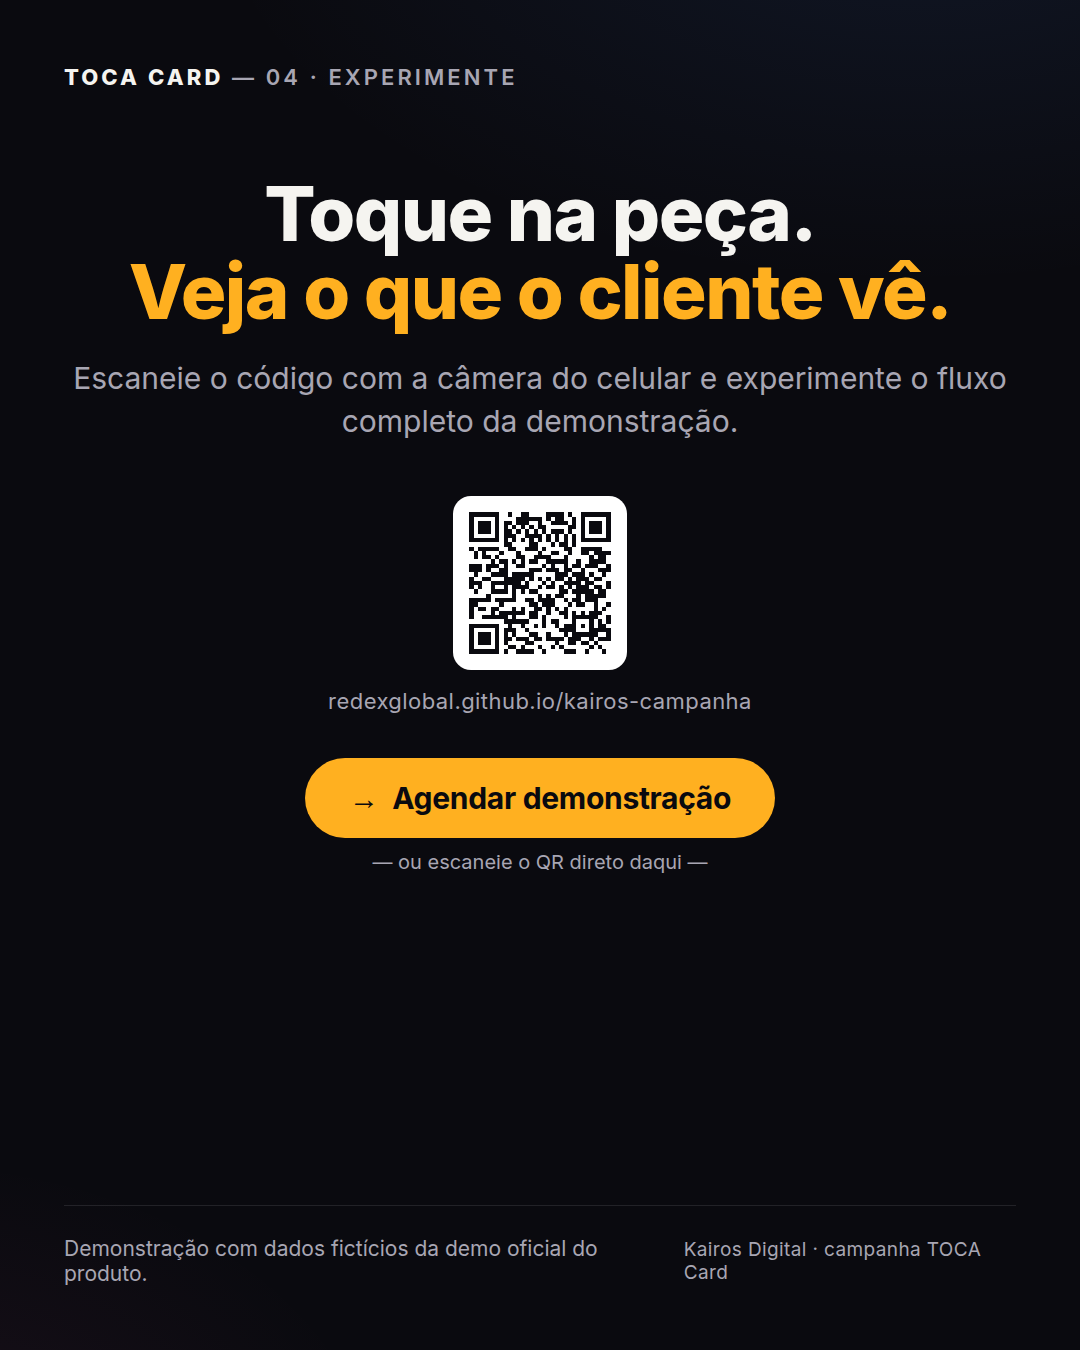
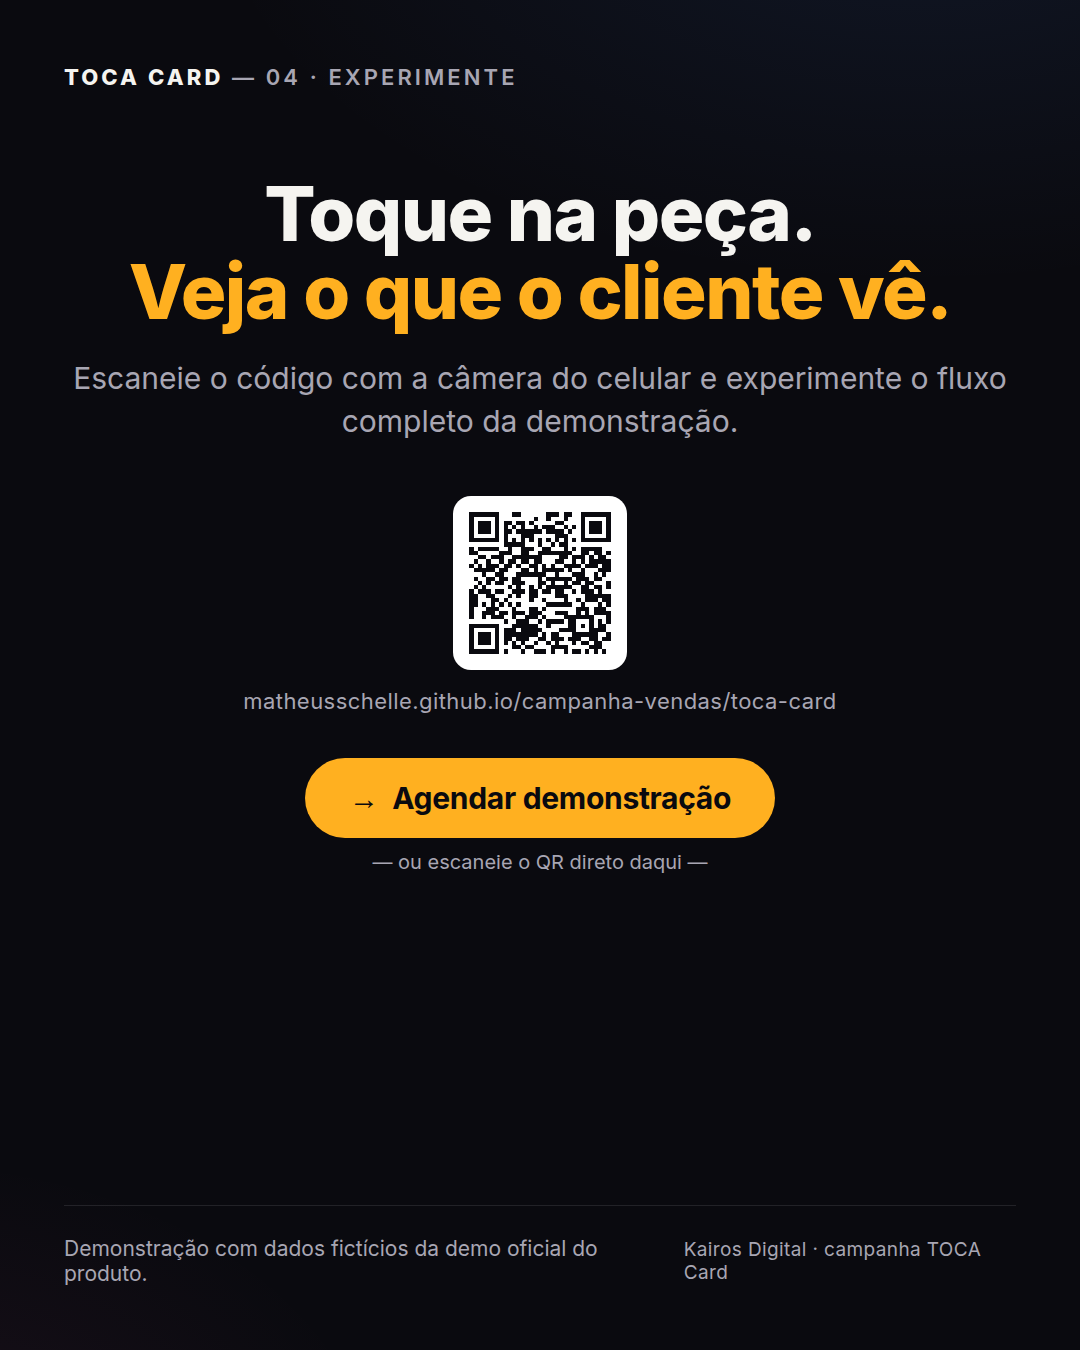
QRs e og:image apontando p/ URL final (campanha-vendas); flyers re-renderizados

Changed region(s): [[0.2139, 0.3733, 0.7639, 0.5289]]

diff --git a/toca-card/index.html b/toca-card/index.html
@@ -7,7 +7,7 @@
   <meta name="description" content="Cartão físico com QR do Instagram, avaliação do Google e Pix. Você muda o destino de cada QR pelo celular, sem reimprimir. Agende uma demonstração.">
   <meta property="og:title" content="TOCA Card — seu balcão conecta em um toque">
   <meta property="og:description" content="Instagram, Google e Pix em um único toque. Destinos editáveis pelo celular, sem reimprimir a peça.">
-  <meta property="og:image" content="https://redexglobal.github.io/kairos-campanha/toca-card/img/hub-desktop.webp">
+  <meta property="og:image" content="https://matheusschelle.github.io/campanha-vendas/toca-card/img/hub-desktop.webp">
   <meta property="og:type" content="website">
   <link rel="preconnect" href="https://fonts.googleapis.com" crossorigin>
   <link rel="preconnect" href="https://fonts.gstatic.com" crossorigin>
